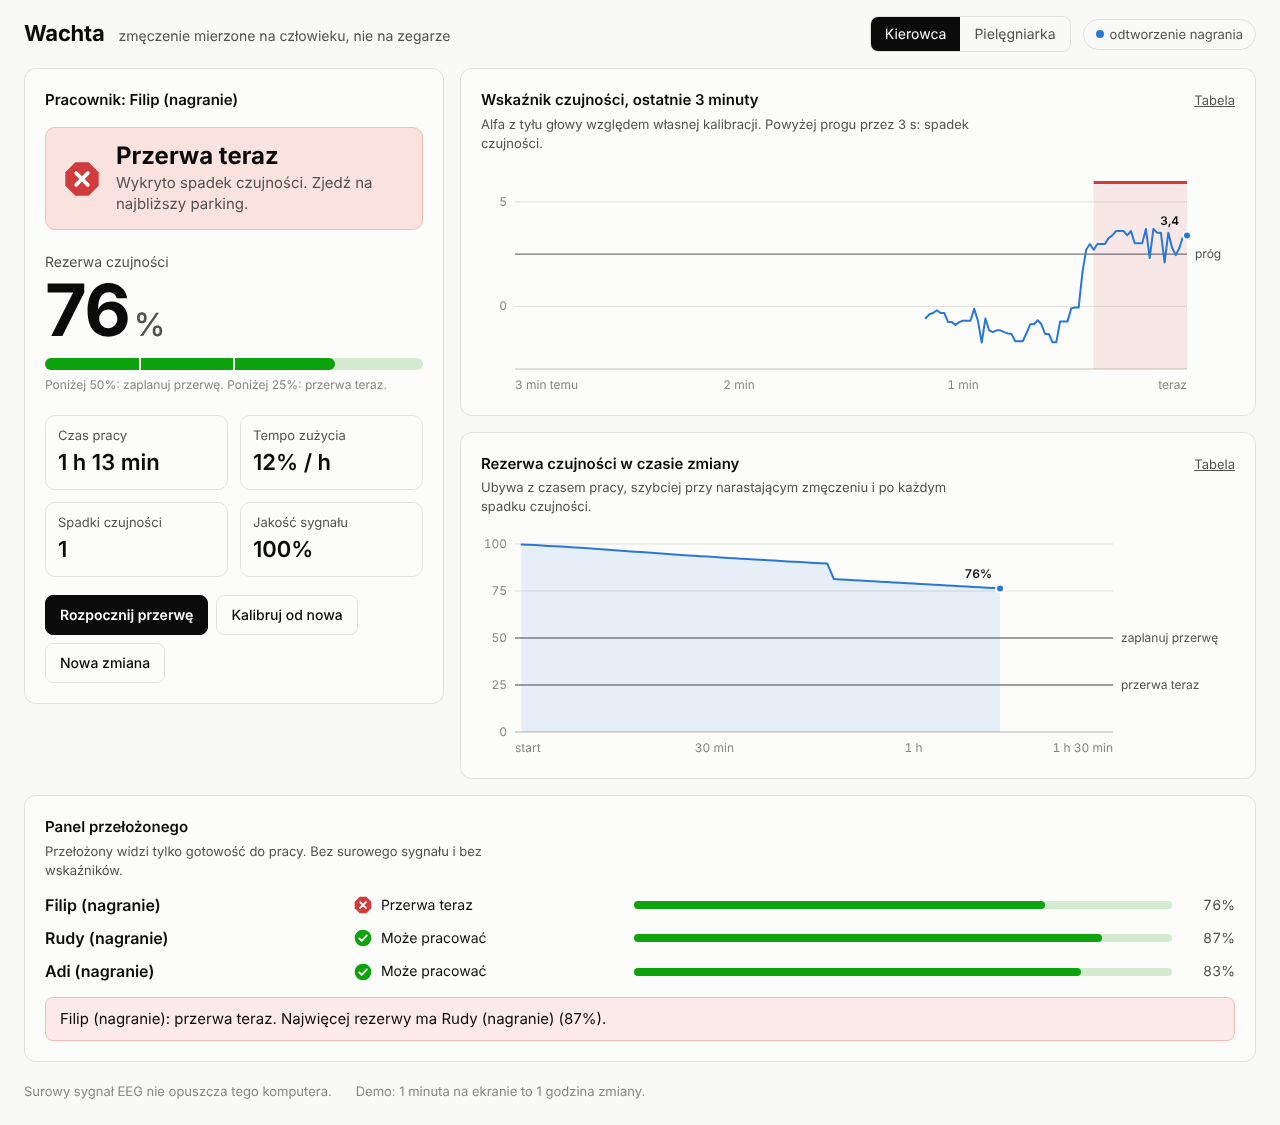
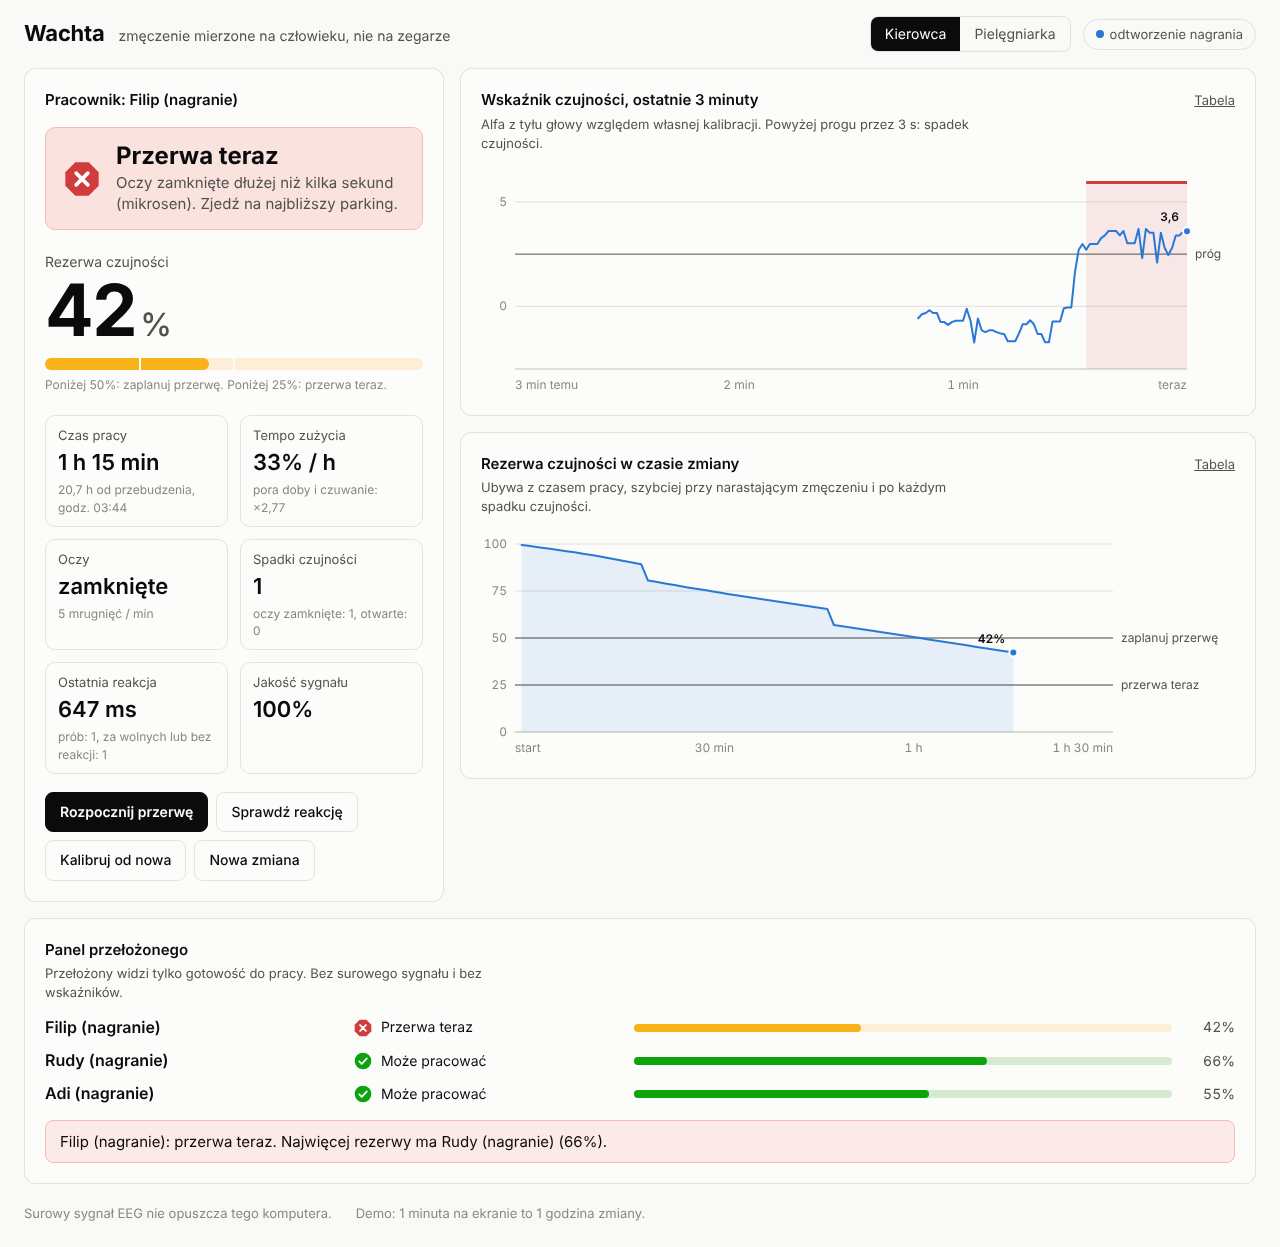
Report eye-state and probe results on team recordings
Claude-Session: https://claude.ai/code/session_01KNE5v5JwF24TUUsfXhuNy9

diff --git a/experiments/validate-on-recordings.py b/experiments/validate-on-recordings.py
@@ -64,6 +64,15 @@ def evaluate(name: str, path: Path, cfg: Config) -> dict:
     false_alarms = [t for t in starts if not target.onset <= t <= target.end + cfg.win_s]
     outside_minutes = len(outside) * cfg.step_s / 60.0
 
+    # Eye state (A7) and reaction probes (A8).
+    lapse_in_block = [r for r in inside if r["lapse"]]
+    eyes_closed_share = (
+        100.0 * np.mean([r["lapse_kind"] == "eyes_closed" for r in lapse_in_block]) if lapse_in_block else float("nan")
+    )
+    probe_times = [r["t"] for r in calibrated if r["probe"]]
+    probes_outside = [t for t in probe_times if not target.onset - 10 <= t <= target.end]
+    probes_before_lapse = [t for t in probe_times if target.onset <= t <= (hits[0] if hits else target.end)]
+
     return {
         "name": name,
         "results": results,
@@ -77,6 +86,9 @@ def evaluate(name: str, path: Path, cfg: Config) -> dict:
         "false_alarms_per_10min": len(false_alarms) / outside_minutes * 10.0 if outside_minutes else float("nan"),
         "false_time_pct": 100.0 * np.mean([r["lapse"] for r in outside]) if outside else float("nan"),
         "outside_minutes": outside_minutes,
+        "eyes_closed_share": eyes_closed_share,
+        "probes_outside_per_10min": len(probes_outside) / outside_minutes * 10.0 if outside_minutes else float("nan"),
+        "probe_before_lapse": bool(probes_before_lapse),
         "auc": auc(
             [r["fast"] for r in inside if r["fast"] is not None],
             [r["fast"] for r in outside if r["fast"] is not None],
@@ -110,6 +122,13 @@ def print_table(rows: list[dict]) -> None:
         alarms_text = f"{alarms} fałszywych alarmów"
     print(f"Razem: wykryto {detected} z {len(rows)} bloków, {alarms_text} "
           f"w {pl(minutes, 0)} min poza blokiem (po kalibracji).")
+    print()
+    print("| Osoba | Spadek w bloku oznaczony jako „oczy zamknięte” | Próba reakcji przed alarmem w bloku | "
+          "Próby reakcji poza blokiem |")
+    print("|---|---|---|---|")
+    for row in rows:
+        print(f"| {row['name']} | {pl(row['eyes_closed_share'], 0)}% okien | "
+              f"{'tak' if row['probe_before_lapse'] else 'nie'} | {pl(row['probes_outside_per_10min'])} na 10 min |")
 
 
 def save_figure(rows: list[dict], cfg: Config, path: Path) -> None:

diff --git a/docs/zadania.md b/docs/zadania.md
@@ -40,9 +40,9 @@ Pliki wspólne (zmiany małe i celowe): `README.md`, `AGENTS.md`, `.gitignore`, 
 | A4 | MUST | Tryb na żywo z BrainAccess Board | źródło `board` w `sources.py`, `docs/uruchomienie.md` | na laptopie ze sprzętem płyną próbki, a zamknięcie oczu zmienia stan | zrobione: test na sprzęcie 14.11 (kalibracja, zamknięcie oczu → „Przerwa teraz”) |
 | A5 | SHOULD | Narzędzie punktu pomiarowego: odlicza kroki, zapisuje znaczniki i KSS | `src/wachta/session.py` | zapisuje adnotacje i wiersz w `checkpoints.csv` w formatach z sekcji „Kontrakty” | zrobione: `feat/checkpoint-session` |
 | A6 | COULD | Prognoza czasu do progu, test czasu reakcji w przeglądarce, krzywe z Garmin Connect | `src/wachta/pvt.py`, `src/wachta/pvt.html` (`minutes_to_warn` / `minutes_to_stop` w `src/wachta/index.py`) | test PVT-B działa w przeglądarce i zapisuje wynik do `data/recordings/pvt.csv` | zrobione: `feat/pvt-test` (PVT-B + prognoza w `index.py`; odczyty Garmin w `checkpoints.csv`) |
-| A7 | MUST | Stan oczu z EEG: mrugnięcia na F3/F4, rozdzielenie spadku czujności na „oczy zamknięte” i „senność przy otwartych oczach” | `src/wachta/blinks.py`, `src/wachta/index.py`, dashboard | na nagraniach zespołu blok `eyes_closed` jest klasyfikowany jako „oczy zamknięte”; tabela w `docs/trafnosc-na-nagraniach.md` | w toku: `claude/sleepy-lamport-v2kzl7` |
-| A8 | MUST | Próba reakcji wywoływana przez EEG: gdy wskaźnik zbliża się do progu, dashboard prosi o reakcję; > 355 ms albo brak = potwierdzony spadek | `src/wachta/index.py`, `src/wachta/server.py`, `src/wachta/web/` | próba pojawia się przy rosnącym wskaźniku i ręcznie, czas reakcji wpływa na stan i rezerwę | w toku: `claude/sleepy-lamport-v2kzl7` |
-| A9 | SHOULD | Kontekst w rezerwie: czas od przebudzenia, pora doby (model dwuprocesowy, uproszczony) | `src/wachta/config.py`, `src/wachta/index.py`, `--wake`, `--clock` | rezerwa spada szybciej w nocy i po długim czuwaniu; parametry opisane jako założenia | w toku: `claude/sleepy-lamport-v2kzl7` |
+| A7 | MUST | Stan oczu z EEG: mrugnięcia na F3/F4, rozdzielenie spadku czujności na „oczy zamknięte” i „senność przy otwartych oczach” | `src/wachta/blinks.py`, `src/wachta/index.py`, dashboard | na nagraniach zespołu blok `eyes_closed` jest klasyfikowany jako „oczy zamknięte”; tabela w `docs/trafnosc-na-nagraniach.md` | zrobione |
+| A8 | MUST | Próba reakcji wywoływana przez EEG: gdy wskaźnik zbliża się do progu, dashboard prosi o reakcję; > 355 ms albo brak = potwierdzony spadek | `src/wachta/index.py`, `src/wachta/server.py`, `src/wachta/web/` | próba pojawia się przy rosnącym wskaźniku i ręcznie, czas reakcji wpływa na stan i rezerwę | zrobione |
+| A9 | SHOULD | Kontekst w rezerwie: czas od przebudzenia, pora doby (model dwuprocesowy, uproszczony) | `src/wachta/config.py`, `src/wachta/index.py`, `--wake`, `--clock` | rezerwa spada szybciej w nocy i po długim czuwaniu; parametry opisane jako założenia | zrobione |
 
 ## B. Dane i dowody
 

diff --git a/docs/trafnosc-na-nagraniach.md b/docs/trafnosc-na-nagraniach.md
@@ -41,6 +41,43 @@ Kolumny:
   Prawdziwa senność daje słabsze zmiany. To uzupełni wykres z danych publicznych (zadanie B2).
 - **Wskaźnik wolny i rezerwa nie są tu sprawdzane.** Ich parametry są założeniami.
 
+## Stan oczu i próby reakcji (zadania A7, A8)
+
+Kamera w aucie sprawdza, czy oczy są zamknięte. Żeby odróżnić to od senności przy otwartych oczach, pipeline liczy
+mrugnięcia na F3/F4 (przy referencji Fp1 mrugnięcie to krótkie, duże wychylenie). Spadek czujności bez mrugnięć jest
+oznaczany jako „oczy zamknięte”, a spadek przy mrugających oczach jako „senność przy otwartych oczach”.
+
+Mrugnięcia na minutę w blokach protokołu (detektor z `src/wachta/blinks.py`, próg z pierwszych 20 s nagrania):
+
+| Osoba | Rozmowa | Oczy zamknięte | Czytanie | Liczenie |
+|---|---|---|---|---|
+| adi | 4,2 | 0,0 | 9,6 | 12,9 |
+| filip | 19,6 | 1,0 | 3,0 | 0,0 |
+| rudy | 13,6 | 0,0 | 8,0 | 31,6 |
+| wojtek | 13,0 | 12,4 | 1,0 | 0,0 |
+
+| Osoba | Spadek w bloku oznaczony jako „oczy zamknięte” | Próba reakcji przed alarmem w bloku | Próby reakcji poza blokiem |
+|---|---|---|---|
+| adi | 100% okien | tak | 0,0 na 10 min |
+| filip | 100% okien | tak | 3,2 na 10 min |
+| rudy | 100% okien | tak | 1,7 na 10 min |
+| wojtek | 43% okien | tak | 8,0 na 10 min |
+
+Jak to czytać:
+
+- **U trzech osób blok zamkniętych oczu jest prawie bez mrugnięć i cały oznaczony poprawnie.** U Wojtka detektor widzi serię
+  wychyleń w 37.–41. s bloku i przy jego końcu. W tym samym miejscu spada jego alfa, więc to najpewniej krótkie otwarcie oczu,
+  a nie błąd detektora. Bez nagrania wideo nie da się tego rozstrzygnąć.
+- **Przy czytaniu i liczeniu ludzie mrugają rzadko** (u Filipa i Wojtka 0–3 razy na minutę). Same mrugnięcia nie wystarczą więc
+  do oceny stanu oczu. Liczą się tylko razem ze wzrostem alfy.
+- **Senności przy otwartych oczach nie da się tu sprawdzić**, bo nikt w tych nagraniach nie był senny. Dowody na nią pochodzą
+  z danych publicznych (notebooki 04 i 05) i literatury (`podstawy-naukowe.md`). Własne dane mają dać nocne punkty pomiarowe (C4).
+- **Próba reakcji pojawia się przed alarmem u wszystkich czterech osób**, czyli gdy wskaźnik dopiero rośnie. Ceną są próby poza
+  blokiem: od 0 do 8 na 10 minut, najwięcej przy najbardziej zaszumionym sygnale (Wojtek). Wyższy próg próby (1,8 lub 2,0
+  zamiast 1,5) zmniejsza ich liczbę, ale u Wojtka próba przestaje wyprzedzać alarm. Ustawienie do dostrojenia na większej
+  liczbie nagrań.
+- Czasu reakcji nie da się sprawdzić na nagraniach: próba wymaga człowieka przed ekranem.
+
 ## Jak odtworzyć
 
 ```bash

diff --git a/docs/uruchomienie.md b/docs/uruchomienie.md
@@ -78,9 +78,19 @@ python -m wachta.server --source board --name Wojtek --team rudy:0 adi:60
 
 Kalibracja trwa ok. 60 s spokojnego patrzenia przed siebie. Przyciski na stronie: przerwa, ponowna kalibracja, nowa zmiana.
 
+Co widać na stronie poza stanem i rezerwą:
+
+- **Oczy:** otwarte albo zamknięte, z liczbą mrugnięć na minutę (z F3/F4). Spadek czujności jest opisany jako
+  „oczy zamknięte (mikrosen)” albo „senność przy otwartych oczach”.
+- **Próba reakcji:** gdy wskaźnik rośnie, ale nie przekroczył jeszcze progu, pojawia się żółte kółko z dźwiękiem.
+  Trzeba nacisnąć spację albo kliknąć. Reakcja wolniejsza niż 355 ms albo jej brak w ciągu 3 s liczy się jako spadek
+  czujności. Przycisk „Sprawdź reakcję” wywołuje próbę ręcznie (do demo).
+
 Przydatne opcje:
 
 - `--time-scale 60` (domyślnie): 1 minuta na ekranie to 1 godzina zmiany, żeby rezerwa zmieniała się w czasie demo. `--time-scale 1` to czas rzeczywisty.
+- `--wake 07:00 --clock 02:30`: godzina przebudzenia i godzina na starcie zmiany (domyślnie teraz). Włącza kontekst:
+  rezerwa spada szybciej w nocy (najmocniej ok. 4:30) i po długim czuwaniu. Parametry to założenia, opisane w `config.py`.
 - `--file` przyjmuje nazwę nagrania zespołu (`adi`, `filip`, `rudy`, `wojtek`) albo ścieżkę do pliku `.fif`.
 - `--team NAZWA:START` dodaje odtwarzane nagrania do panelu przełożonego.
 - `GET /api/state` zwraca ostatni wynik każdego pracownika (do szybkiego sprawdzenia bez przeglądarki).
